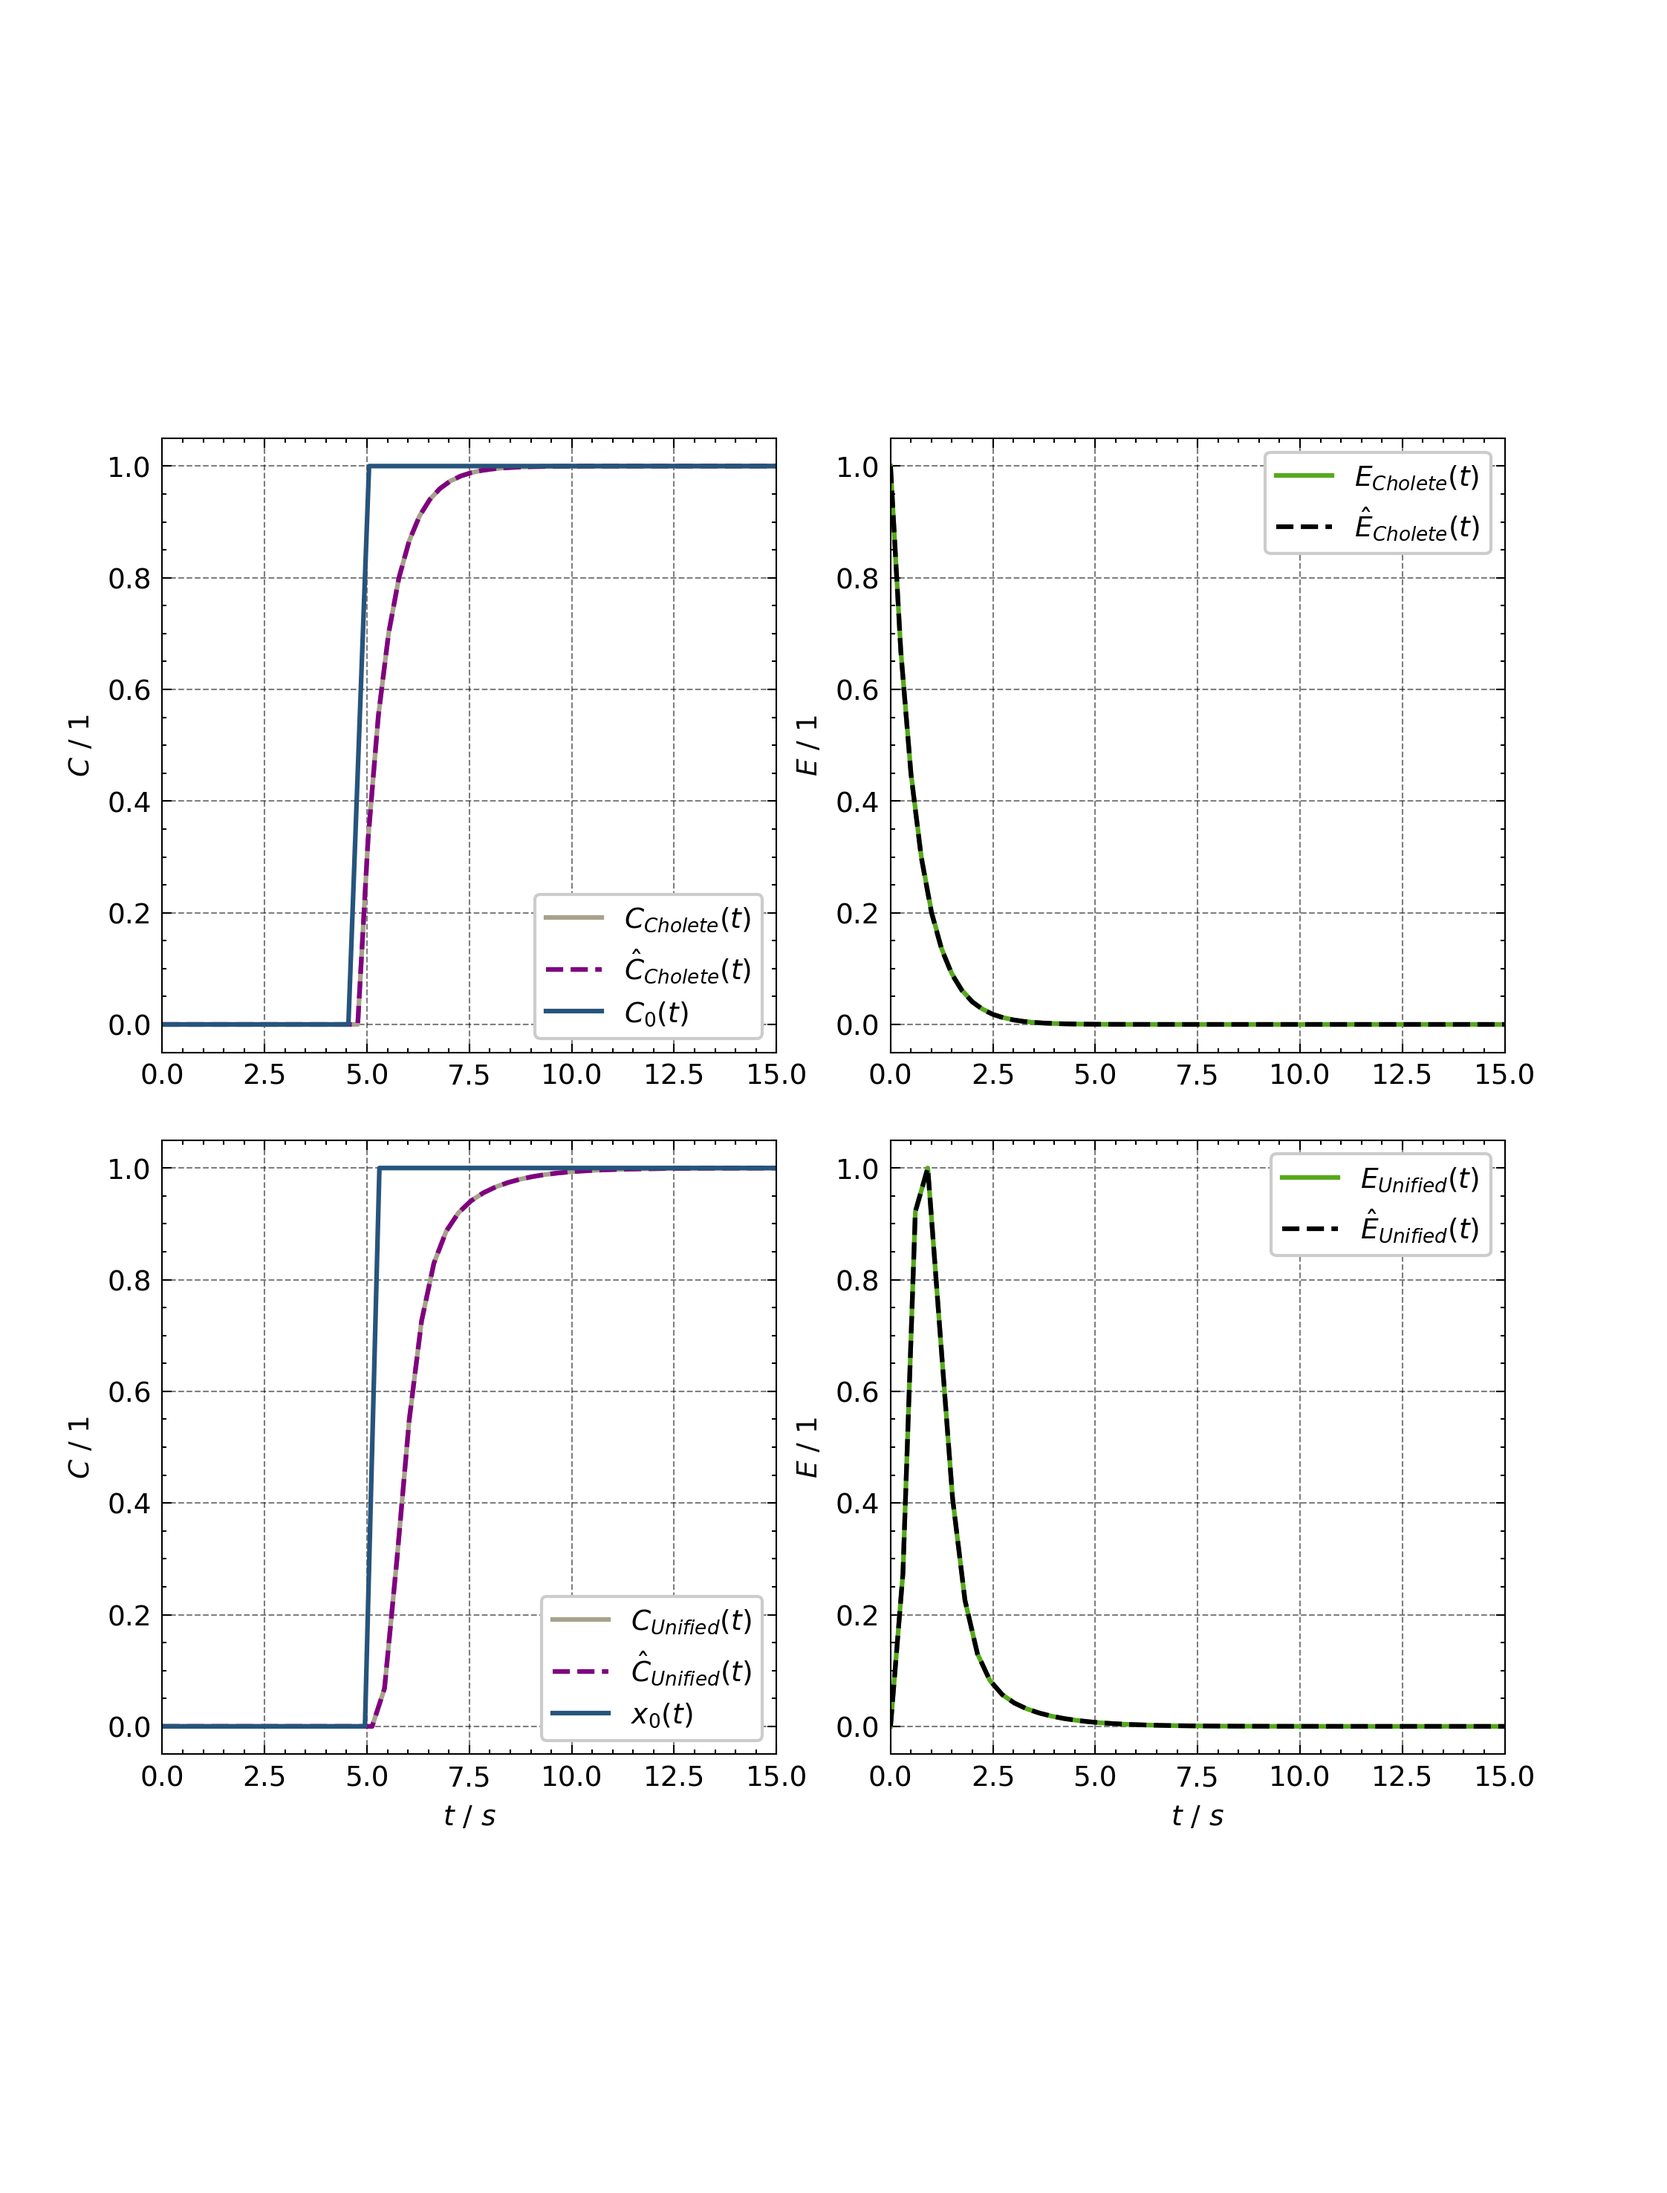
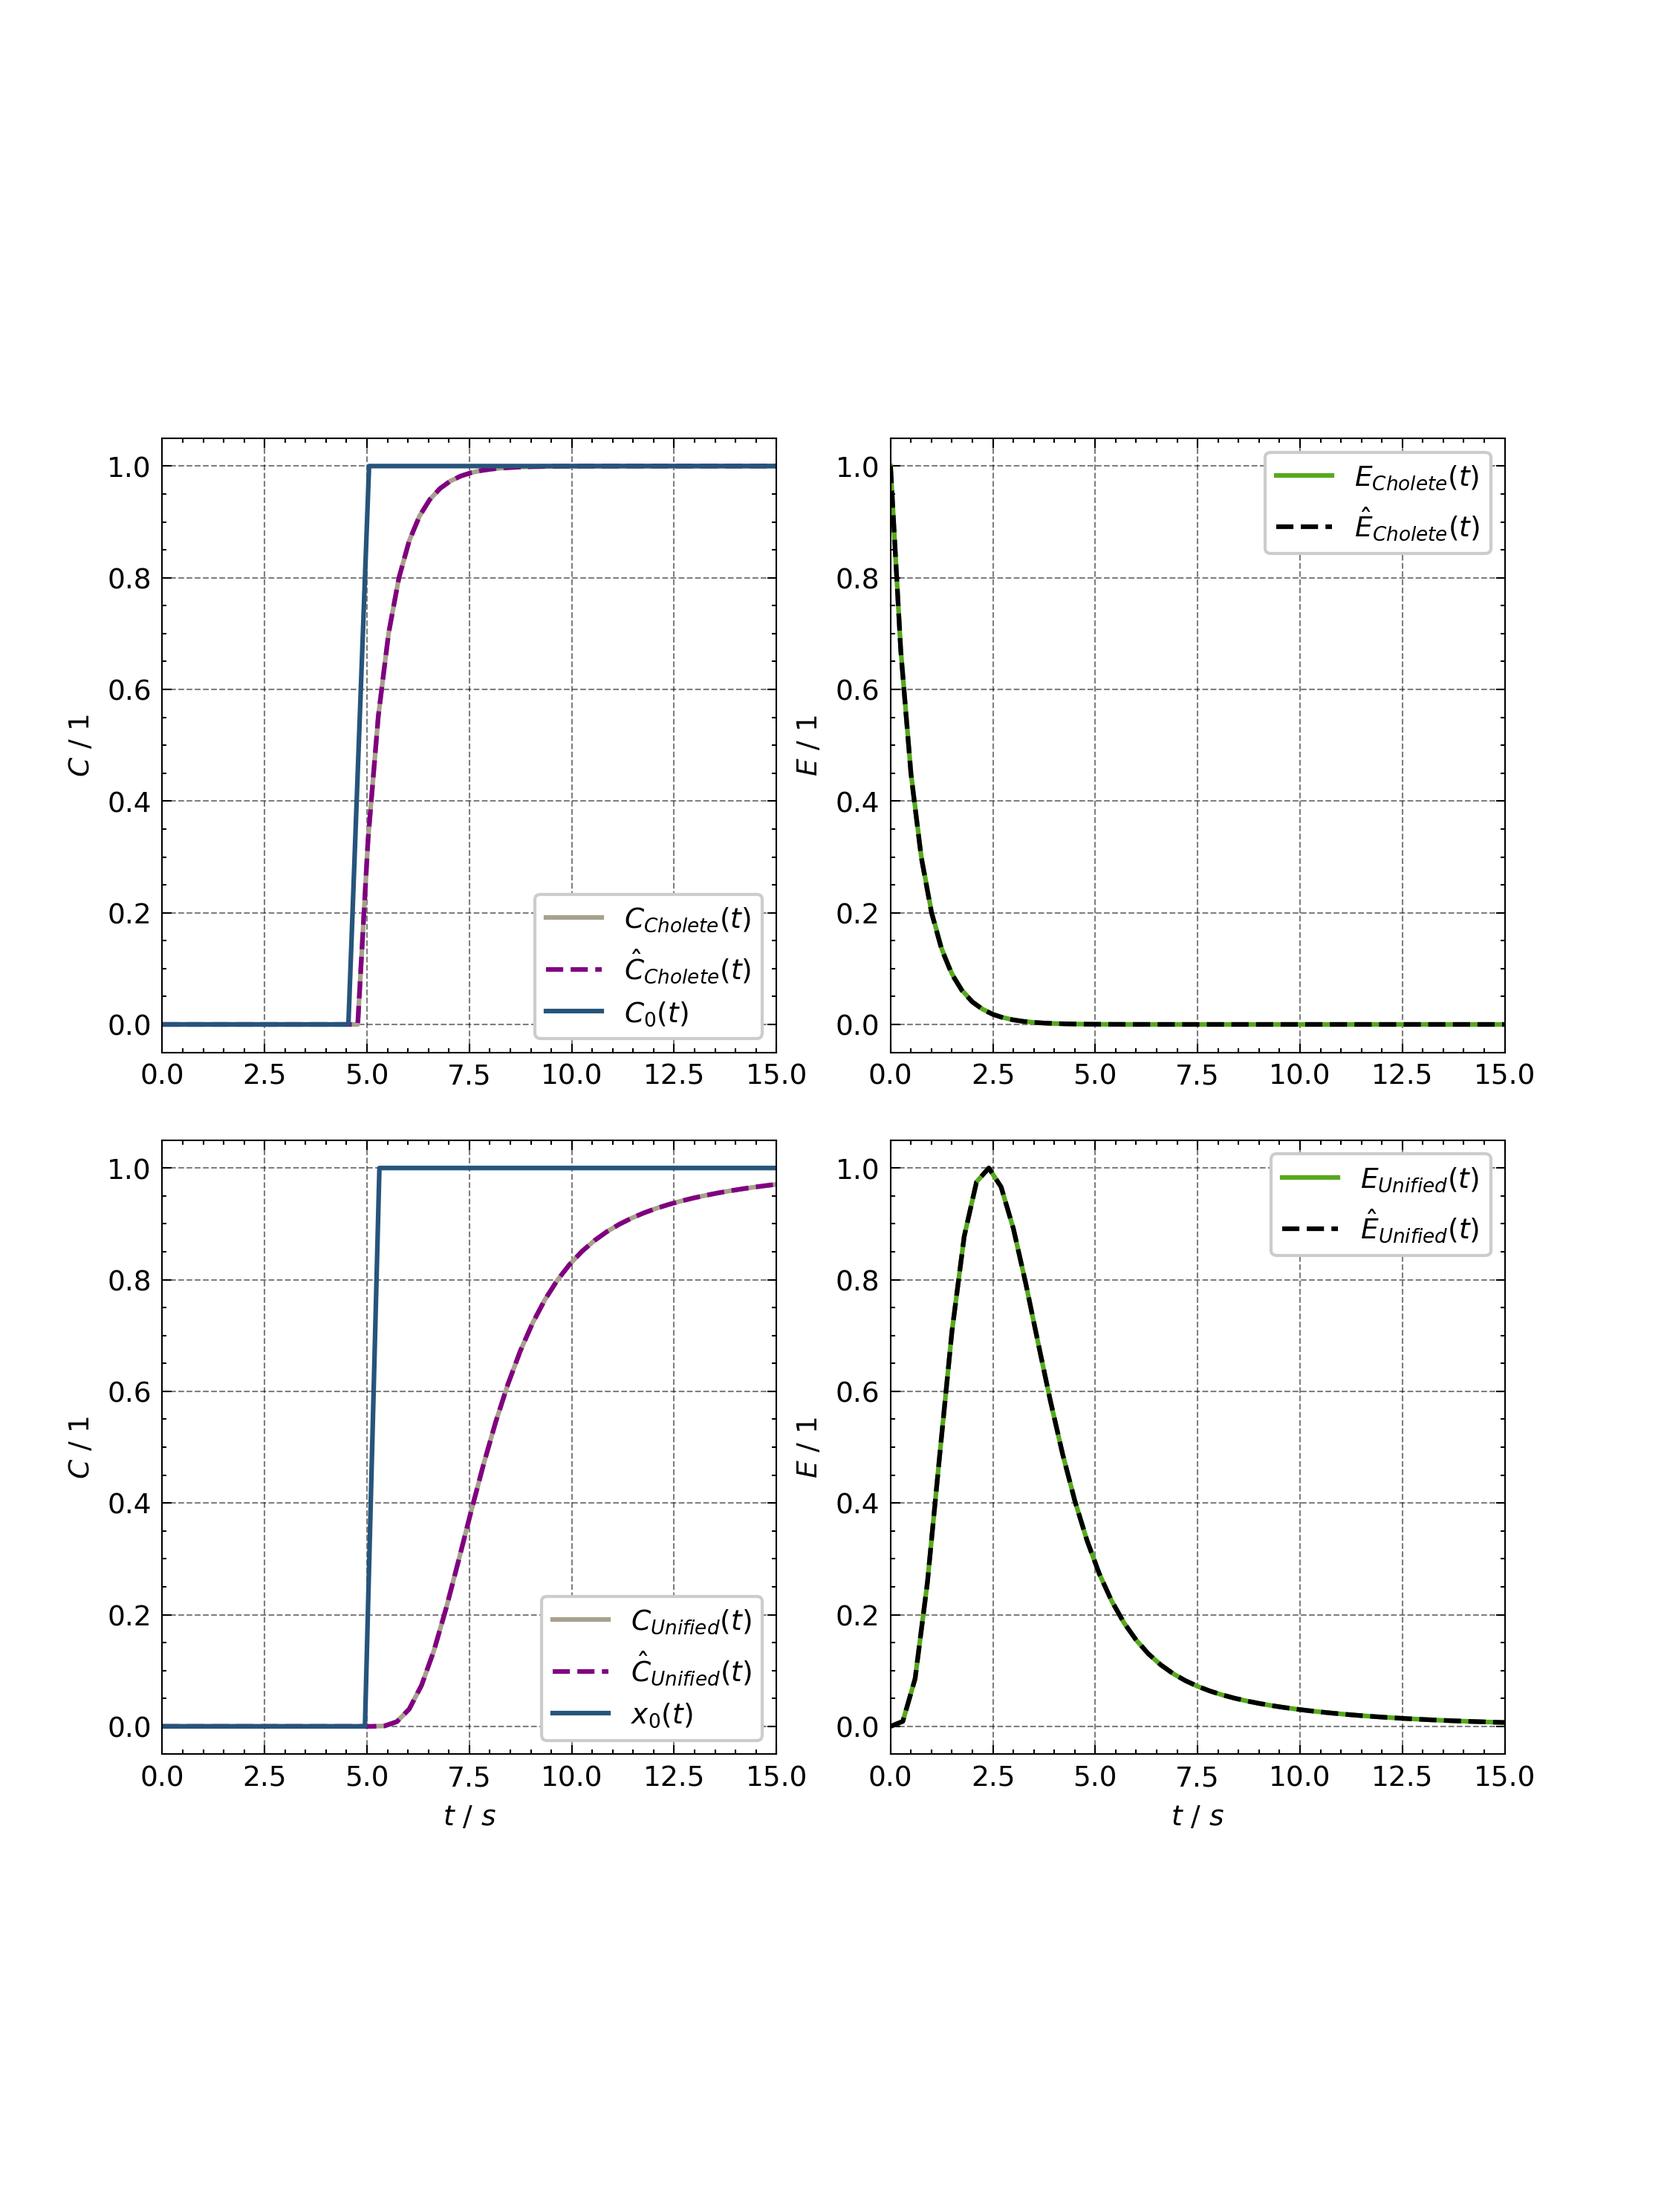
plotting

diff --git a/Experiments/Preliminary/2_nd_Layer_exp/0001/H_085/Convolution_script_exp_085.py b/Experiments/Preliminary/2_nd_Layer_exp/0001/H_085/Convolution_script_exp_085.py
@@ -127,10 +127,10 @@ t_conv_list = []
 
 
 for i, file_num in enumerate(file_numbers):
-    # t_conv_path = f"/Users/tuanaoyuncu/Documents/GitHub/nRTD/Data/0001/C_001/H_135_C1/S_010_C1/TOA_MGA_20231020_010_{file_num:06d}_t_processed_2nlayer_200.npy"
-    # c_out_path = f"/Users/tuanaoyuncu/Documents/GitHub/nRTD/Data/0001/C_001/H_135_C1/S_010_C1/TOA_MGA_20231020_010_{file_num:06d}_x_processed_2nlayer_200.npy"
-    t_conv_path= rf"D:\Tuana\nRTD\Data\0001\C_001\H_085_C1\S_009_C1\TOA_MGA_20231020_009_{file_num:06d}_t_processed_2nlayer_200_disc.npy"
-    c_out_path =rf"D:\Tuana\nRTD\Data\0001\C_001\H_085_C1\S_009_C1\TOA_MGA_20231020_009_{file_num:06d}_x_processed_2nlayer_200_disc.npy"
+    t_conv_path = f"/Users/tuanaoyuncu/Documents/GitHub/nRTD/Data/0001/C_001/H_135_C1/S_010_C1/TOA_MGA_20231020_010_{file_num:06d}_t_processed_2nlayer_200.npy"
+    c_out_path = f"/Users/tuanaoyuncu/Documents/GitHub/nRTD/Data/0001/C_001/H_135_C1/S_010_C1/TOA_MGA_20231020_010_{file_num:06d}_x_processed_2nlayer_200.npy"
+    # t_conv_path= rf"D:\Tuana\nRTD\Data\0001\C_001\H_085_C1\S_009_C1\TOA_MGA_20231020_009_{file_num:06d}_t_processed_2nlayer_200_disc.npy"
+    # c_out_path =rf"D:\Tuana\nRTD\Data\0001\C_001\H_085_C1\S_009_C1\TOA_MGA_20231020_009_{file_num:06d}_x_processed_2nlayer_200_disc.npy"
     
     print(f"Processing files: {t_conv_path}, {c_out_path}")
 
@@ -198,7 +198,7 @@ wandb_logger = pl_loggers.WandbLogger(
 
 trainer = pl.Trainer(
     accelerator="auto",
-    max_epochs=10000,
+    max_epochs=1,
     logger=wandb_logger, deterministic=True
 )
 trainer.fit(model, dl)
@@ -231,7 +231,7 @@ plt.ylim((0, 0.2))
 plt.legend()
 wandb.finish()
 current_date = datetime.datetime.now().strftime("%Y%m%d")
-plt.savefig(os.path.join(save_dir,f"Figure_C_001_H_135_C1{current_date}.png"), dpi=300)
+# plt.savefig(os.path.join(save_dir,f"Figure_C_001_H_135_C1{current_date}.png"), dpi=300)
 plt.show()
 
 ###Second CNN
@@ -248,10 +248,10 @@ c_2_in=torch.tensor(c_out).float()
 print("c_in",c_out.shape)
 
 for i, file_num in enumerate(file_numbers):
-    # t_conv_path_2 = f"/Users/tuanaoyuncu/Documents/GitHub/nRTD/Data/0001/C_002/H_135_C2/S_013_C2/TOA_MGA_20231020_013_{file_num:06d}_t_processed.npy"
-    # c_out_path_2 = f"/Users/tuanaoyuncu/Documents/GitHub/nRTD/Data/0001/C_002/H_135_C2/S_013_C2/TOA_MGA_20231020_013_{file_num:06d}_x_processed.npy"
-    t_conv_path_2= rf"D:\Tuana\nRTD\Data\0001\C_002\H_085_C2\S_012_C2\TOA_MGA_20231020_012_{file_num:06d}_t_processed_500.npy"
-    c_out_path_2 =rf"D:\Tuana\nRTD\Data\0001\C_002\H_085_C2\S_012_C2\TOA_MGA_20231020_012_{file_num:06d}_x_processed_500.npy"
+    t_conv_path_2 = f"/Users/tuanaoyuncu/Documents/GitHub/nRTD/Data/0001/C_002/H_135_C2/S_013_C2/TOA_MGA_20231020_013_{file_num:06d}_t_processed.npy"
+    c_out_path_2 = f"/Users/tuanaoyuncu/Documents/GitHub/nRTD/Data/0001/C_002/H_135_C2/S_013_C2/TOA_MGA_20231020_013_{file_num:06d}_x_processed.npy"
+    #t_conv_path_2= rf"D:\Tuana\nRTD\Data\0001\C_002\H_085_C2\S_012_C2\TOA_MGA_20231020_012_{file_num:06d}_t_processed_500.npy"
+    # c_out_path_2 =rf"D:\Tuana\nRTD\Data\0001\C_002\H_085_C2\S_012_C2\TOA_MGA_20231020_012_{file_num:06d}_x_processed_500.npy"
 
     print(f"Processing files: {t_conv_path_2}, {c_out_path_2}")
 
@@ -286,7 +286,7 @@ dl_2 = DataLoader(ds_2, batch_size=1, shuffle=True)
 
 trainer = pl.Trainer(
     accelerator="auto",
-    max_epochs=10000,
+    max_epochs=1,
     logger=wandb_logger,
     deterministic=True,
 )
@@ -332,9 +332,9 @@ ax1.set_ylim((0, 0.2))
 ax1.set_ylabel('Concentration')
 ax1.set_xlabel('Time')
 current_date = datetime.datetime.now().strftime("%Y%m%d")
-plt.savefig(os.path.join(save_dir,f"Figure_C_002_H_135_C2{current_date}.png"), dpi=300)
+# plt.savefig(os.path.join(save_dir,f"Figure_C_002_H_135_C2{current_date}.png"), dpi=300)
 current_date = datetime.datetime.now().strftime("%Y%m%d")
-plt.savefig(os.path.join(save_dir,f"Figure_C_002_H_135_C2{current_date}.png"), dpi=300)
+# plt.savefig(os.path.join(save_dir,f"Figure_C_002_H_135_C2{current_date}.png"), dpi=300)
 plt.show()
 plt.show()
 
@@ -364,7 +364,7 @@ ax.set_xlim((0, 30))
 ax.set_ylim((-0.01, 0.07))
 plt.legend()
 current_date = datetime.datetime.now().strftime("%Y%m%d")
-plt.savefig(os.path.join(save_dir, f"2nd_085_fitting_3{current_date}.png"), dpi=300)
+# plt.savefig(os.path.join(save_dir, f"2nd_085_fitting_3{current_date}.png"), dpi=300)
 plt.show()
 
 
@@ -394,6 +394,6 @@ ax.set_xlim((0, 15))
 ax.set_ylim((-0.1, 0.2))
 plt.legend()
 current_date = datetime.datetime.now().strftime("%Y%m%d")
-plt.savefig(os.path.join(save_dir, f"2nd_085_E_fitting_3{current_date}.png"), dpi=300)
+# plt.savefig(os.path.join(save_dir, f"2nd_085_E_fitting_3{current_date}.png"), dpi=300)
 
 plt.show()

diff --git a/Plots/General_plotting.py b/Plots/General_plotting.py
@@ -62,12 +62,12 @@ predicted_E_Cholete= np.load('/Users/tuanaoyuncu/Documents/GitHub/nRTD/Experimen
 expected_E_Cholete= np.load('/Users/tuanaoyuncu/Documents/GitHub/nRTD/Experiments/Preliminary/Convolution_script/Convolution_024_Cholete_Model/E_expected_01.npy')
 ###########
 Unified = '/Users/tuanaoyuncu/Documents/GitHub/nRTD/Experiments/Preliminary/Litrature/Unified_time_delay'
-t_conv_Unified = torch.tensor(np.load(os.path.join(Unified, 'time_J5_tau1_alpha0.2_200.npy')), dtype=torch.float32).unsqueeze(0).unsqueeze(0)
-c_out_Unified = torch.tensor(np.load(os.path.join(Unified, 'concentration_J5_tau1_alpha0.2_200.npy')), dtype=torch.float32).unsqueeze(0).unsqueeze(0)
-predicted_c_Unified = np.load('/Users/tuanaoyuncu/Documents/GitHub/nRTD/Experiments/Preliminary/Convolution_script/Convolution_025_Unified_time_Model/c_conv_in_j5_1.npy')
-predicted_time_Unified = np.load('/Users/tuanaoyuncu/Documents/GitHub/nRTD/Experiments/Preliminary/Convolution_script/Convolution_025_Unified_time_Model/t_E_predicted_J5_tau_1.npy')
-predicted_E_Unified= np.load('/Users/tuanaoyuncu/Documents/GitHub/nRTD/Experiments/Preliminary/Convolution_script/Convolution_025_Unified_time_Model/E_predicted_J5_tau_1.npy')
-expected_E_Unified= np.load('/Users/tuanaoyuncu/Documents/GitHub/nRTD/Experiments/Preliminary/Convolution_script/Convolution_025_Unified_time_Model/E_expected_J5_tau_1.npy')
+t_conv_Unified = torch.tensor(np.load(os.path.join(Unified, 'time_J5_tau3_alpha0.2_200.npy')), dtype=torch.float32).unsqueeze(0).unsqueeze(0)
+c_out_Unified = torch.tensor(np.load(os.path.join(Unified, 'concentration_J5_tau3_alpha0.2_200.npy')), dtype=torch.float32).unsqueeze(0).unsqueeze(0)
+predicted_c_Unified = np.load('/Users/tuanaoyuncu/Documents/GitHub/nRTD/Experiments/Preliminary/Convolution_script/Convolution_025_Unified_time_Model/c_conv_in_j5_3.npy')
+predicted_time_Unified = np.load('/Users/tuanaoyuncu/Documents/GitHub/nRTD/Experiments/Preliminary/Convolution_script/Convolution_025_Unified_time_Model/t_E_predicted_J5_tau_3.npy')
+predicted_E_Unified= np.load('/Users/tuanaoyuncu/Documents/GitHub/nRTD/Experiments/Preliminary/Convolution_script/Convolution_025_Unified_time_Model/E_predicted_J5_tau_3.npy')
+expected_E_Unified= np.load('/Users/tuanaoyuncu/Documents/GitHub/nRTD/Experiments/Preliminary/Convolution_script/Convolution_025_Unified_time_Model/E_expected_J5_tau_3.npy')
 n_disc=100
 t_input = torch.linspace(0, 50, n_disc)
 c_in = torch.zeros((1, 1, n_disc))
